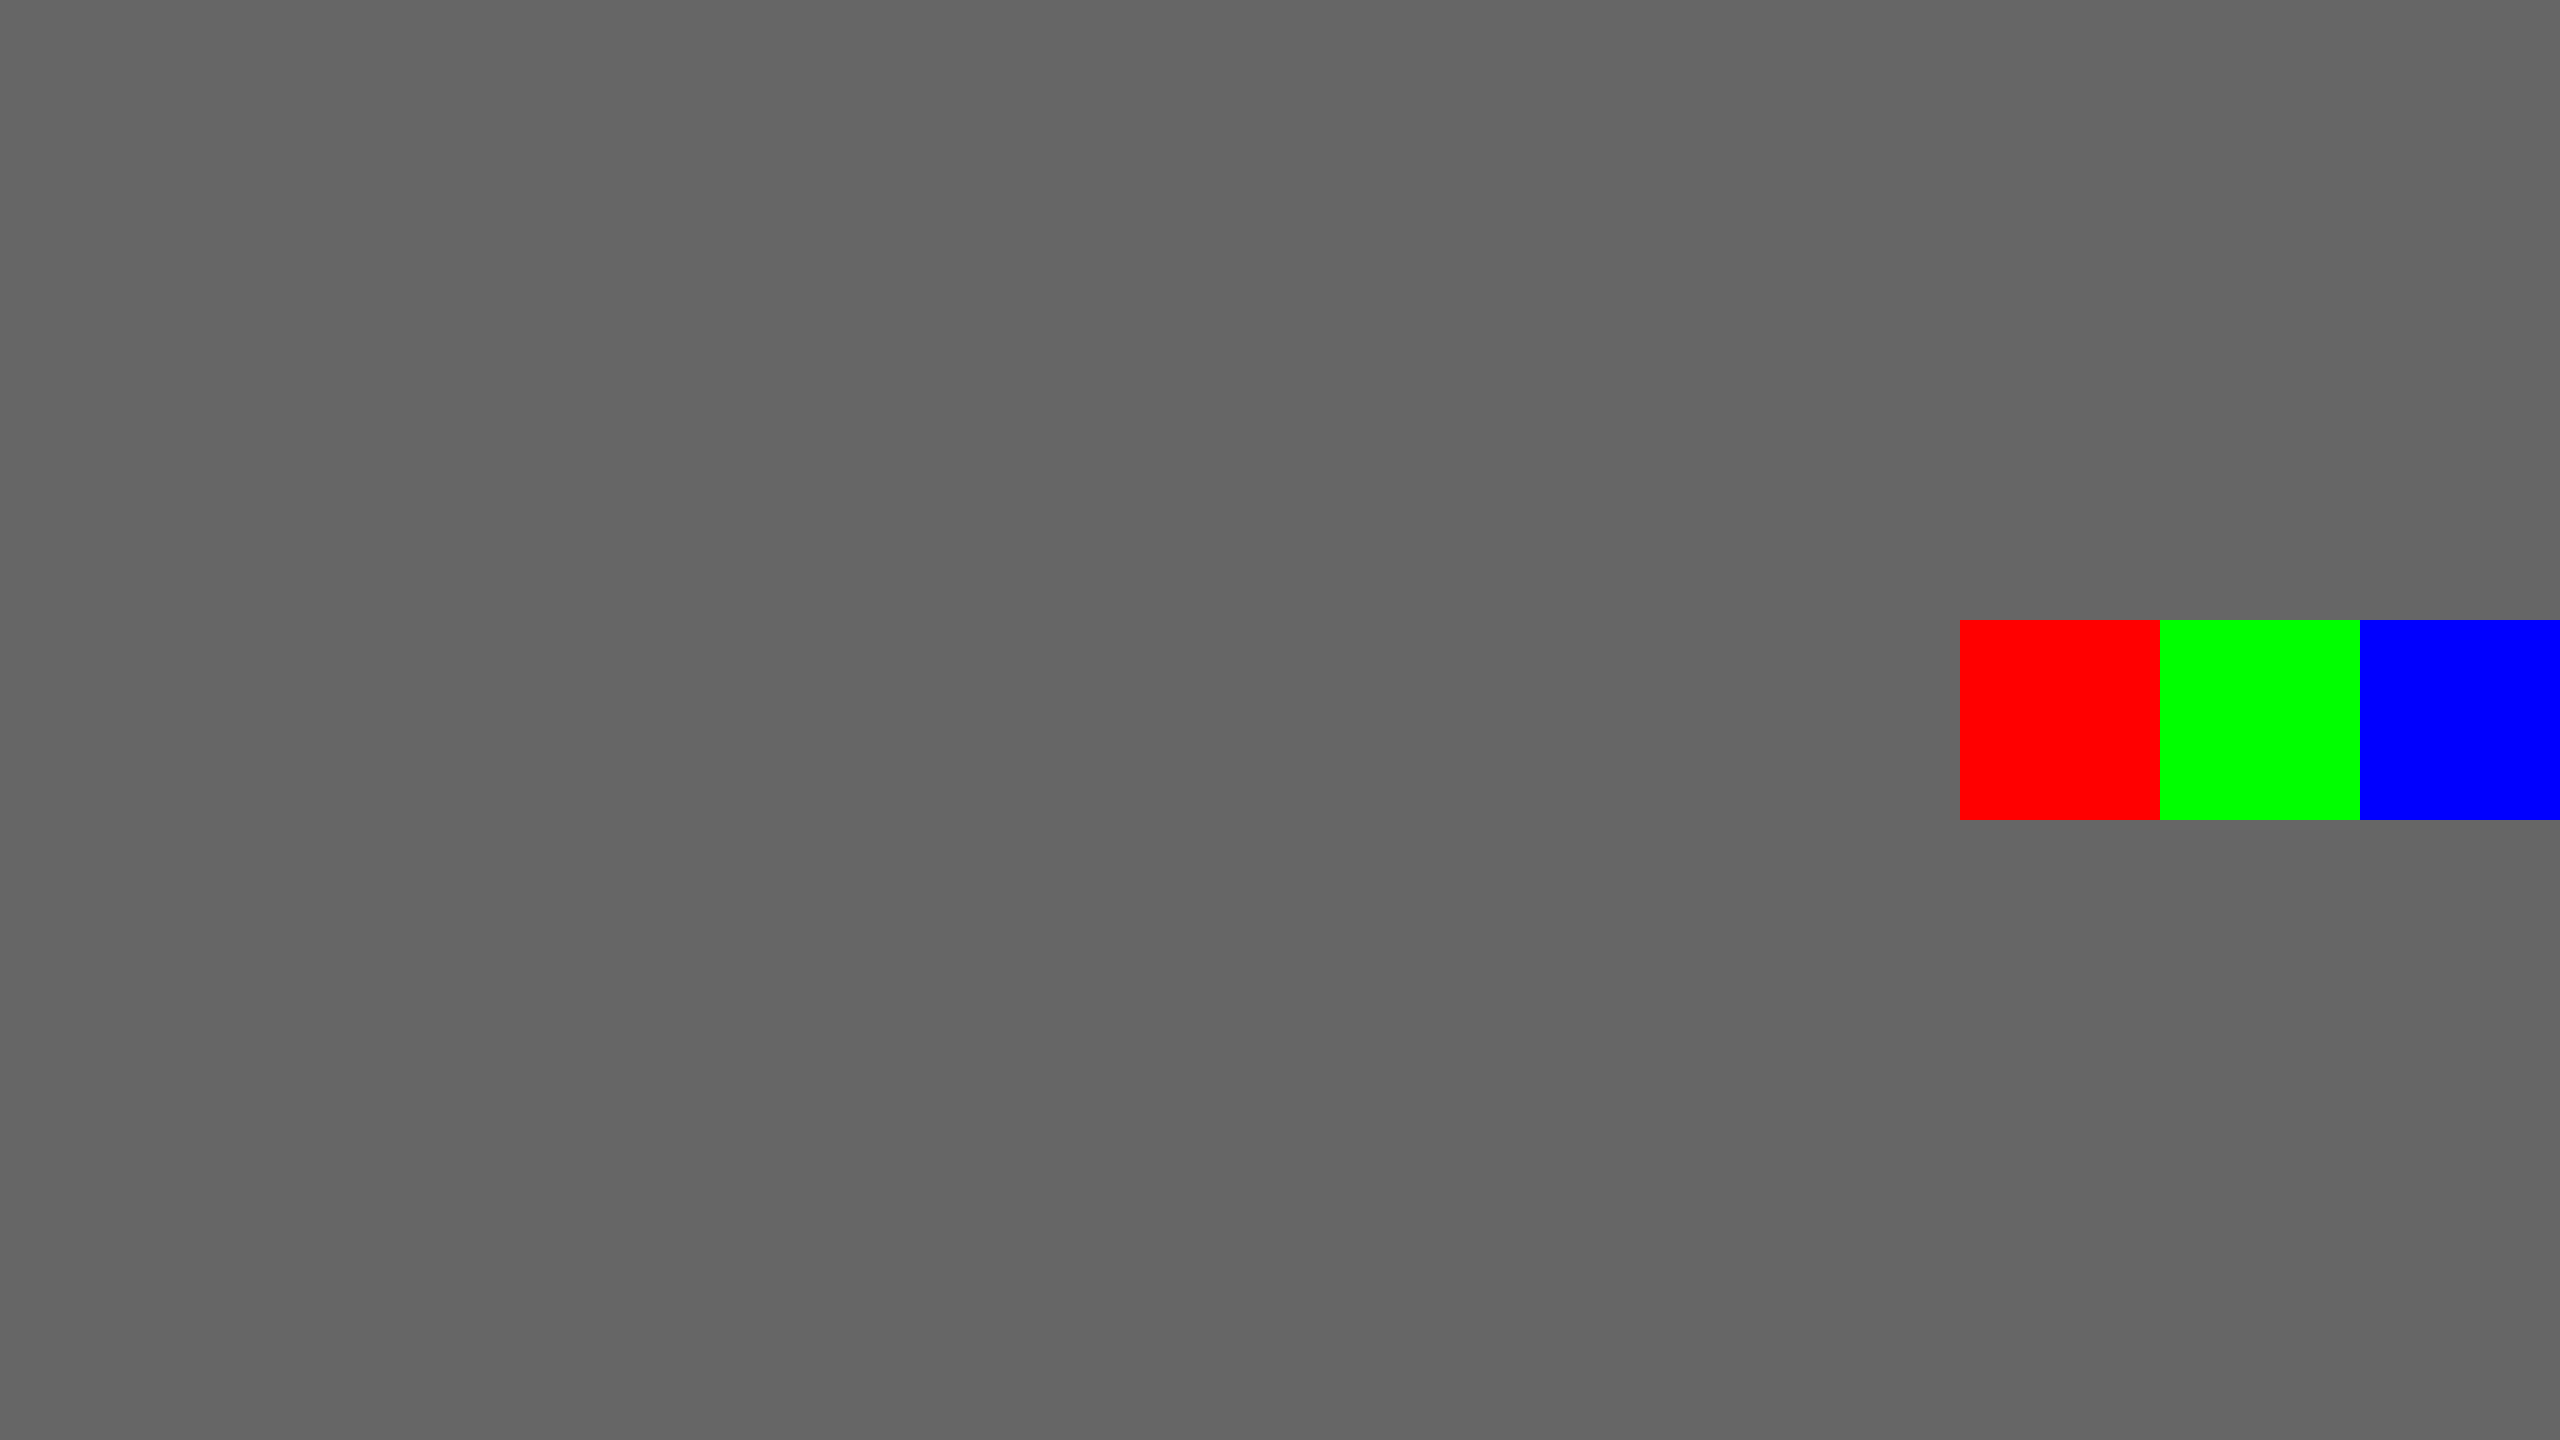
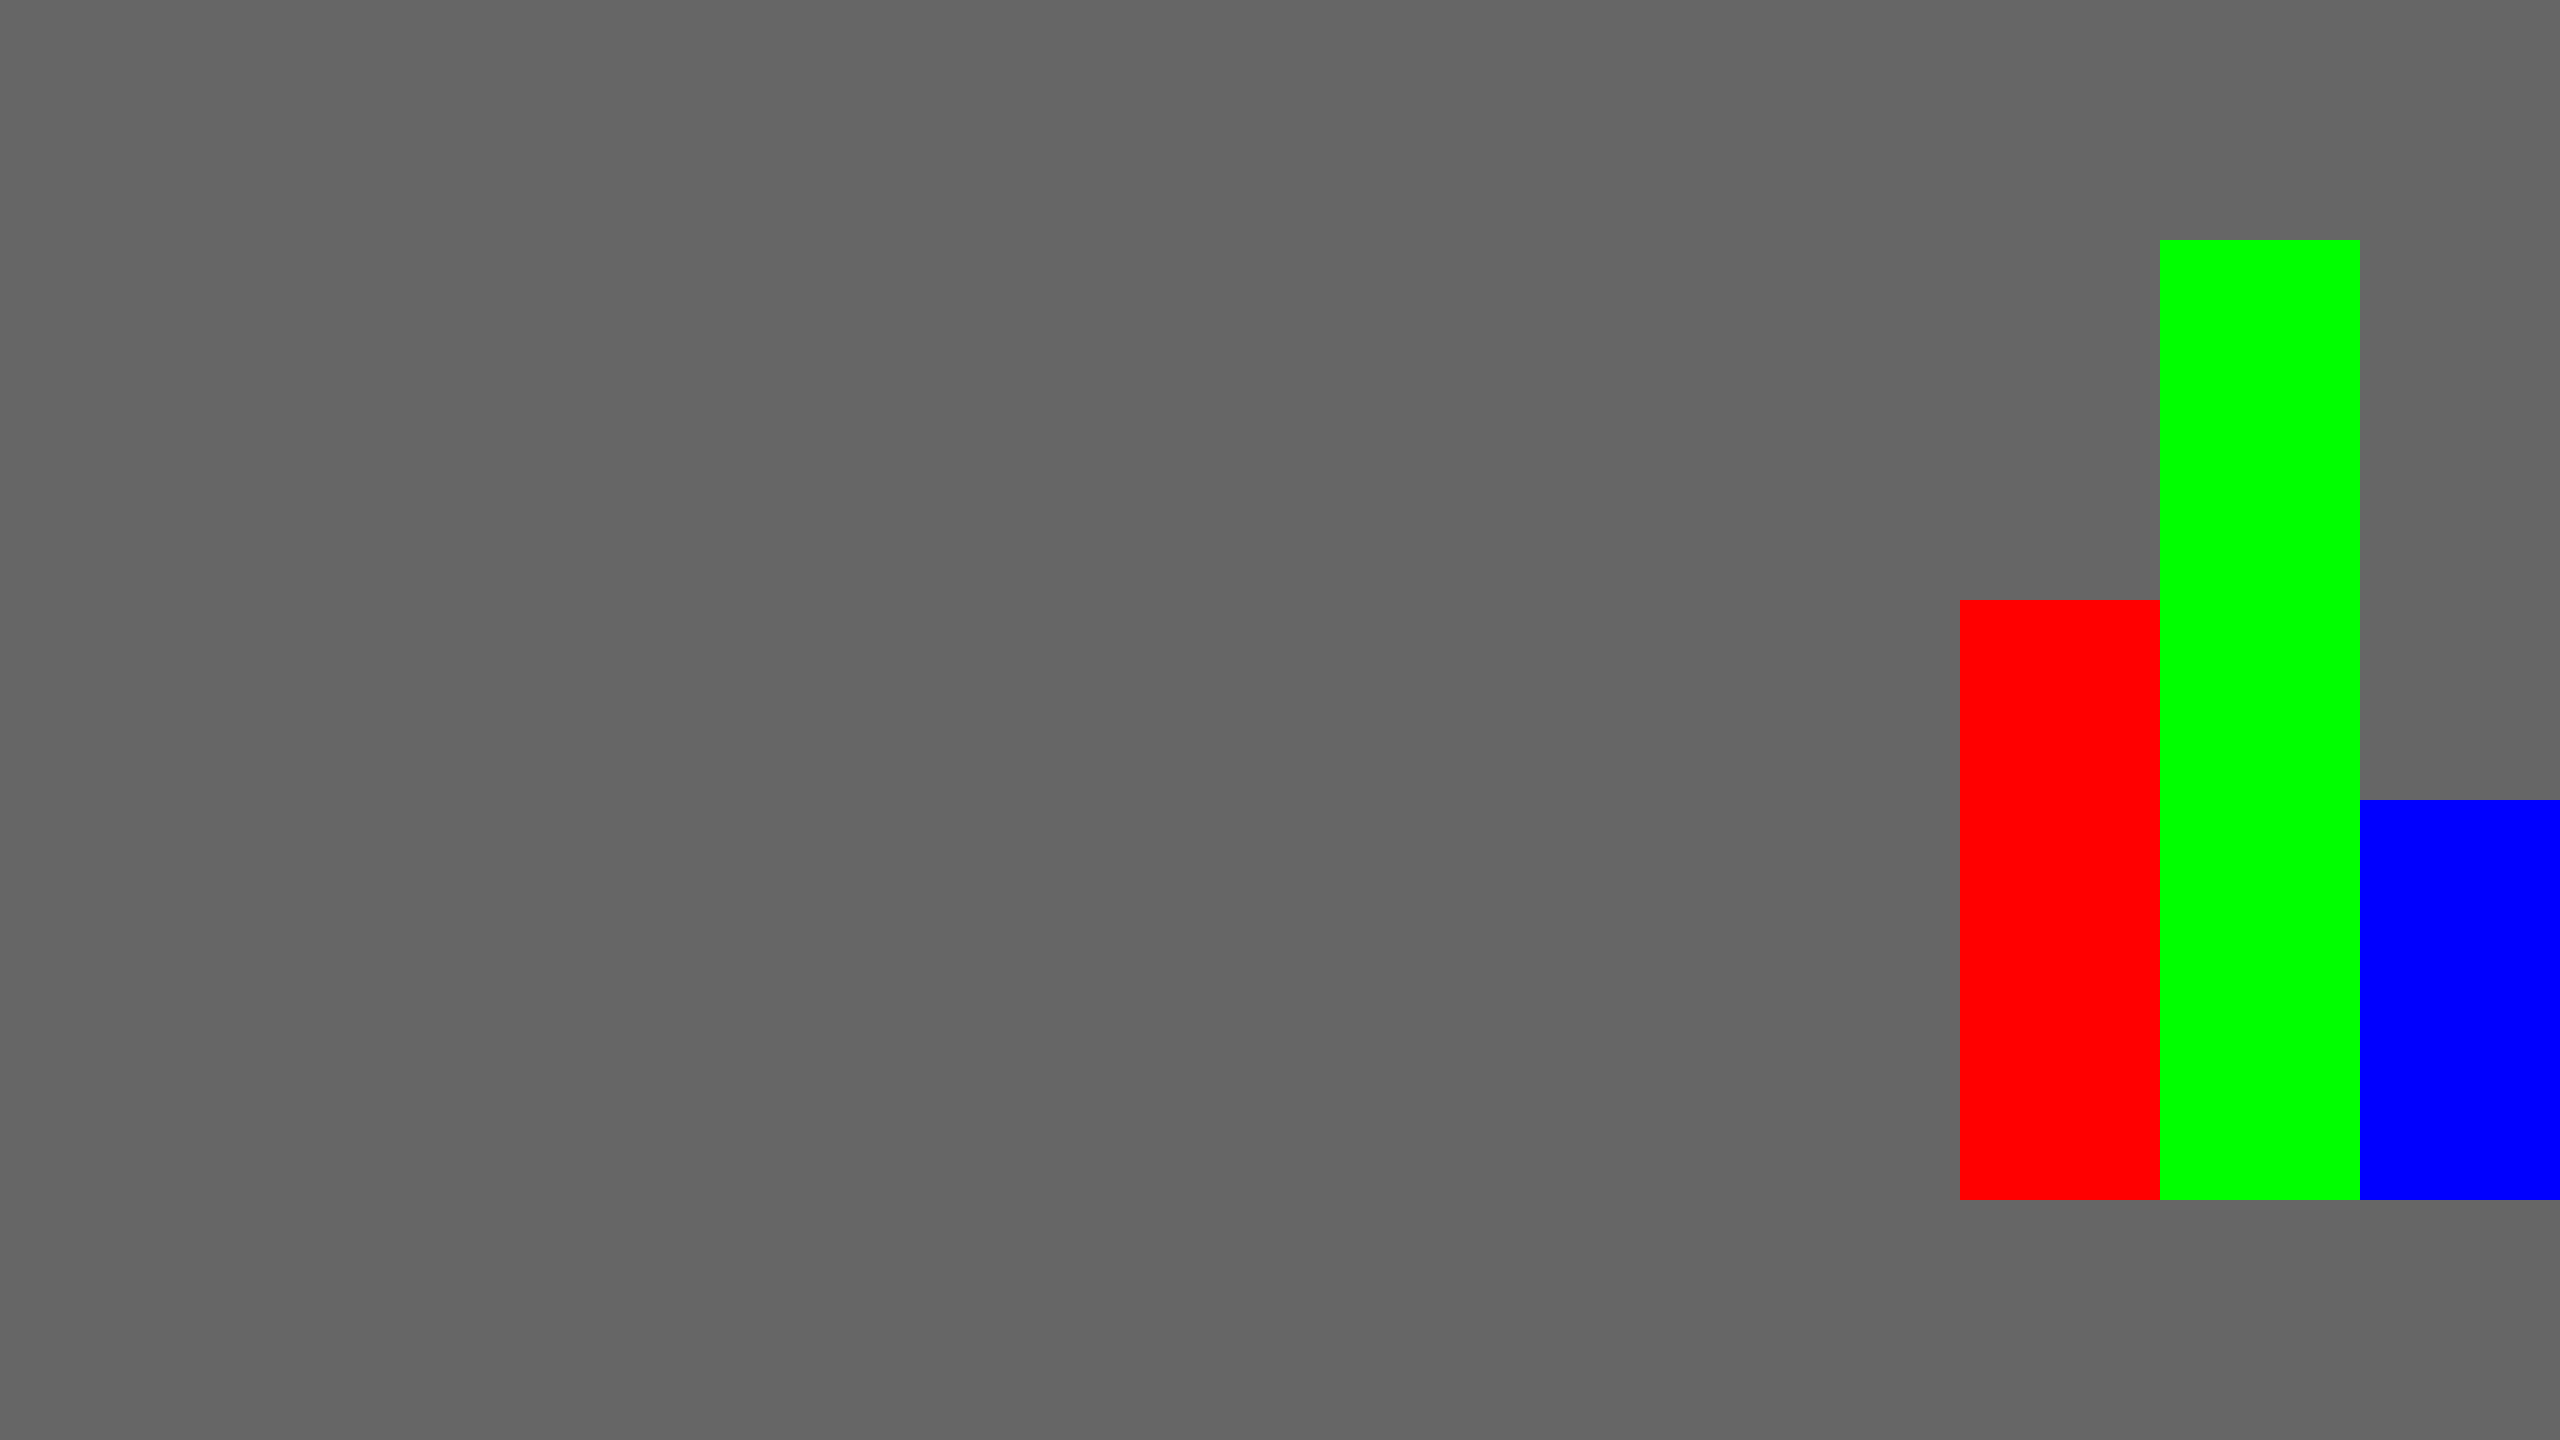
Improve Column

Changed region(s): [[0.75, 0.1562, 1.0, 0.8438]]

diff --git a/crates/wings_ui/src/widgets/direction.rs b/crates/wings_ui/src/widgets/direction.rs
@@ -25,14 +25,34 @@ impl Default for UiColumnBundle {
 }
 
 impl UiColumnBundle {
-    fn from(props: UiColumnProps) -> Self {
+    pub fn from(props: UiColumnProps) -> Self {
+        let height = match props.main_axis_size {
+            MainAxisSize::Min => Val::Auto,
+            MainAxisSize::Max => Val::Percent(100.),
+        };
+
+        let justify_content = match props.main_axis_alignment {
+            MainAxisAlignment::Start => JustifyContent::FlexStart,
+            MainAxisAlignment::End => JustifyContent::FlexEnd,
+            MainAxisAlignment::Center => JustifyContent::Center,
+            _ => JustifyContent::Start,
+        };
+
+        let align_items = match props.cross_axis_alignment {
+            CrossAxisAlignment::Start => AlignItems::FlexStart,
+            CrossAxisAlignment::End => AlignItems::FlexEnd,
+            CrossAxisAlignment::Center => AlignItems::Center,
+            _ => AlignItems::Start,
+        };
+
         Self {
             child: NodeBundle {
                 style: Style {
+                    height,
                     display: get_computed_display(&props.visibility),
                     flex_direction: FlexDirection::Column,
-                    justify_content: JustifyContent::Center,
-                    align_items: AlignItems::Center,
+                    justify_content,
+                    align_items,
                     ..default()
                 },
                 visibility: get_computed_visibility(&props.visibility),
@@ -45,6 +65,17 @@ impl UiColumnBundle {
 
     pub fn from_visibility(visibility: UiVisibility) -> Self {
         Self::from(UiColumnProps { visibility, ..default() })
+    }
+
+    pub fn from_main_axis(
+        main_axis_size: MainAxisSize,
+        main_axis_alignment: MainAxisAlignment,
+    ) -> Self {
+        Self::from(UiColumnProps { main_axis_size, main_axis_alignment, ..default() })
+    }
+
+    pub fn from_cross_axis(cross_axis_alignment: CrossAxisAlignment) -> Self {
+        Self::from(UiColumnProps { cross_axis_alignment, ..default() })
     }
 }
 

diff --git a/README.md b/README.md
@@ -2,6 +2,50 @@
 A new way to build User Interfaces on top of BevyUI.
 This design is inspired from Flutter.
 
+#### <u>Column Example</u>
+
+<p>
+  <img src="./images/column_example.png" width="400" title="hover text">
+</p>
+
+```rust
+fn build_ui(mut commands: Commands) {
+    commands.spawn(
+        UiScaffoldBundle::from(UiScaffoldProps::default()),
+    ).with_children(|parent| {
+        parent.spawn(UiCenterBundle::default()).with_children(|parent| {
+            parent.spawn(
+                UiColumnBundle::from(UiColumnProps {
+                    main_axis_size: MainAxisSize::Max,
+                    main_axis_alignment: MainAxisAlignment::End,
+                    cross_axis_alignment: CrossAxisAlignment::End,
+                    ..default()
+                }),
+            ).with_children(|parent| {
+                parent.spawn(
+                    UiContainerBundle::from(UiContainerProps {
+                        color: Color::RED,
+                        width: Val::Px(300.),
+                        ..default()}),
+                );
+                parent.spawn(
+                    UiContainerBundle::from(UiContainerProps {
+                        color: Color::GREEN,
+                        width: Val::Px(480.),
+                        ..default()}),
+                );
+                parent.spawn(
+                    UiContainerBundle::from(UiContainerProps {
+                        color: Color::BLUE,
+                        width: Val::Px(200.),
+                        ..default()}),
+                );
+            });
+        });
+    });
+}
+```
+
 #### <u>Row Example</u>
 
 <p>
@@ -9,34 +53,38 @@ This design is inspired from Flutter.
 </p>
 
 ```rust
-use bevy::prelude::*;
-use wings::prelude::*;
-
-fn main() {
-    App::new()
-        .add_plugins(DefaultPlugins)
-        .add_plugins(WingsPlugin)
-        .add_systems(Startup, startup)
-        .run();
-}
-
-fn startup(mut commands: Commands) {
-    commands.spawn(Camera2dBundle::default());
-
+fn build_ui(mut commands: Commands) {
     commands.spawn(
         UiScaffoldBundle::from(UiScaffoldProps::default()),
     ).with_children(|parent| {
-        parent.spawn(
-            UiRowBundle::from(UiRowProps {
-                main_axis_size: MainAxisSize::Max,
-                main_axis_alignment: MainAxisAlignment::End,
-                cross_axis_alignment: CrossAxisAlignment::Center,
-                ..default()
-            }),
-        ).with_children(|parent| {
-            parent.spawn(UiContainerBundle::from_color(Color::RED));
-            parent.spawn(UiContainerBundle::from_color(Color::GREEN));
-            parent.spawn(UiContainerBundle::from_color(Color::BLUE));
+        parent.spawn(UiCenterBundle::default()).with_children(|parent| {
+            parent.spawn(
+                UiRowBundle::from(UiRowProps {
+                    main_axis_size: MainAxisSize::Max,
+                    main_axis_alignment: MainAxisAlignment::End,
+                    cross_axis_alignment: CrossAxisAlignment::End,
+                    ..default()
+                }),
+            ).with_children(|parent| {
+                parent.spawn(
+                    UiContainerBundle::from(UiContainerProps {
+                        color: Color::RED,
+                        height: Val::Px(300.),
+                        ..default()}),
+                );
+                parent.spawn(
+                    UiContainerBundle::from(UiContainerProps {
+                        color: Color::GREEN,
+                        height: Val::Px(480.),
+                        ..default()}),
+                );
+                parent.spawn(
+                    UiContainerBundle::from(UiContainerProps {
+                        color: Color::BLUE,
+                        height: Val::Px(200.),
+                        ..default()}),
+                );
+            });
         });
     });
 }
